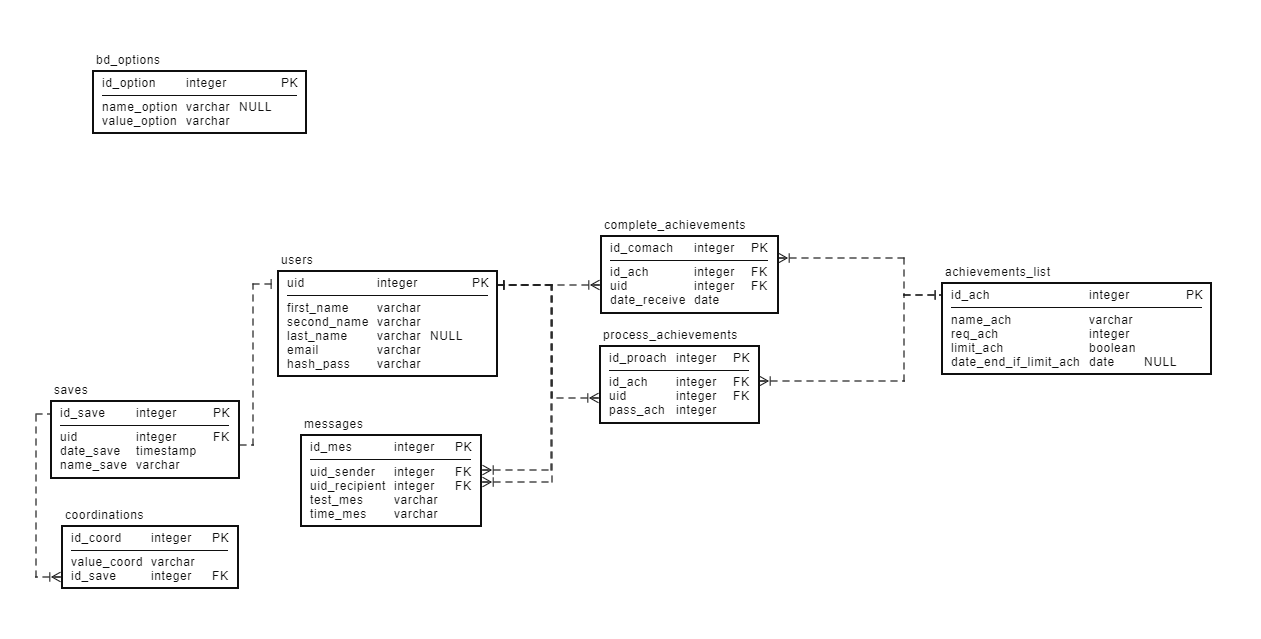
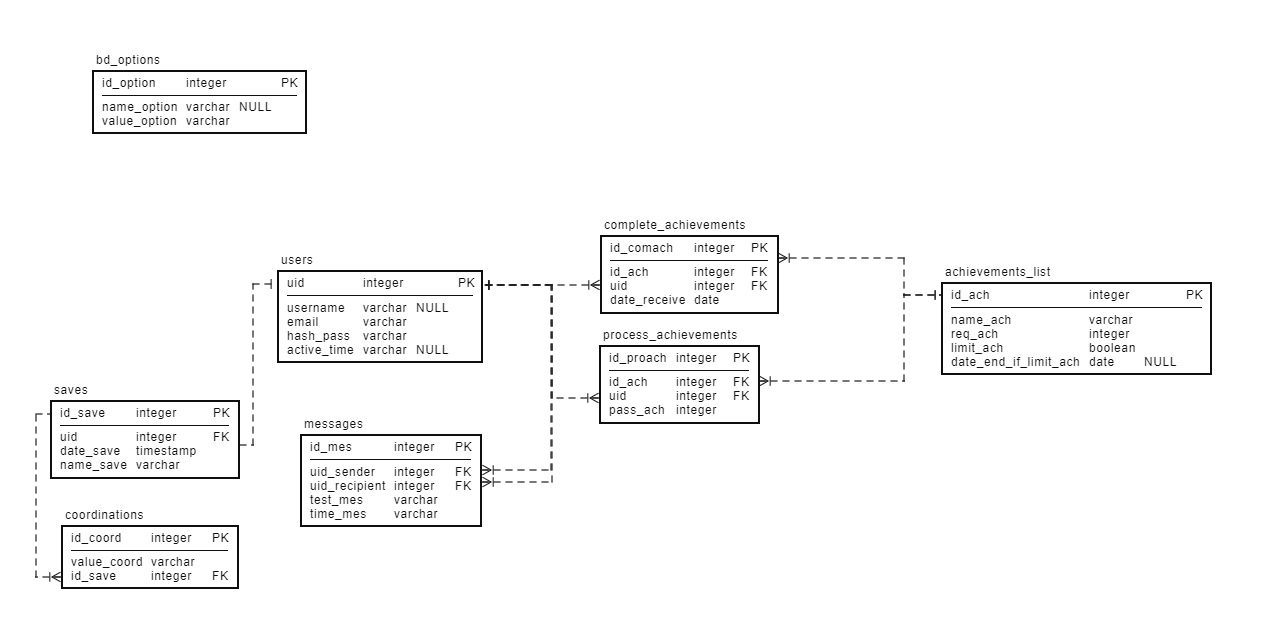
refact+reg, auth

Changed region(s): [[0.2165, 0.4163, 0.4021, 0.5947], [0.2784, 0.4163, 0.3402, 0.446]]

diff --git a/app/routes/login_auth.py b/app/routes/login_auth.py
@@ -1,9 +1,16 @@
 import os
 import hashlib
-import jwt
 from fastapi import APIRouter, Request, Response
 from app.db import DB
-from ..settings import SECRET_KEY
+from ..utils.user import hash_password, \
+    send_confirm_letter, \
+    check_password_hash
+
+from ..queries.queries_login import \
+    check_email_exist, \
+    check_username_exist, \
+    registration_user, \
+    get_pass
 
 routerUser = APIRouter(
     prefix='/user',
@@ -17,24 +24,42 @@ async def reg(request: Request) -> str:
     username = req.get("username")
     email = req.get("email")
     user_pass = req.get("password")
-    query_check_email = f"""
-                     select exists (
-                            select
-                            from users
-                            where email = $1)
-    """
-    check = await DB.conn.fetchval(query_check_email, email)
-    if check:
-        return "lol"
 
-    salt = os.urandom(32)
-    key = hashlib.pbkdf2_hmac('sha256', user_pass.encode('utf-8'), salt, 100000)
-    hash_pass = (salt + key).hex()
+    check_email = await check_email_exist(email)
+    if check_email:
+        return f"lol email"
 
-    query_reg_user = f"""
-         insert into users(username, email, hash_pass)
-         values($1, $2, $3)
-    """
+    check_username = await check_username_exist(username)
+    if check_username:
+        return f"mda username"
 
-    await DB.conn.execute(query_reg_user, username, email, hash_pass)
-    return "all well"
+    hash_pass = hash_password(user_pass)
+
+    answer_code = send_confirm_letter(email)
+    if len(answer_code) != 4:
+        return f"smth wrong with sending email"
+
+    await registration_user(username, email, hash_pass)
+    return answer_code
+
+
+@routerUser.get("/auth")
+async def auth(request: Request) -> str:
+    req: dict = await request.json()
+    username = req.get("username")
+    user_pass = req.get("password")
+
+    check_username = await check_username_exist(username)
+    if check_username is False:
+        return f"mda username"
+
+    db_pass = await get_pass(username)
+    if db_pass is None:
+        return f"mda password"
+
+    print(check_password_hash(user_pass, db_pass))
+
+    return f"okay"
+
+
+

diff --git a/app/utils/user.py b/app/utils/user.py
@@ -1,0 +1,39 @@
+import os
+import hashlib
+import smtplib
+import ujson
+
+from random import randint
+
+from config import EMAIL_PASSWORD
+
+
+def hash_password(user_password: str) -> dict:
+    salt = os.urandom(32).hex()
+    key = hashlib.pbkdf2_hmac("sha256", user_password.encode("utf-8"), salt.encode("utf-8"), 100000).hex()
+    return {"salt": salt, "key": key}
+
+
+def check_password_hash(user_password: str, password_hash: str) -> bool:
+    password_hash = ujson.loads(password_hash)
+    salt, key = password_hash["salt"], password_hash["key"]
+    new_key = hashlib.pbkdf2_hmac("sha256", user_password.encode("utf-8"), salt.encode("utf-8"), 100000).hex()
+    return key == new_key
+
+
+def send_confirm_letter(email: str) -> str:
+    conf_code = str(randint(1000, 9999))
+    text_mail = f"Please, do not reply to this message!\nYour confirm code: {conf_code}."
+
+    sender = "bestgamenoreply@gmail.com"
+    password = EMAIL_PASSWORD
+    server = smtplib.SMTP("smtp.gmail.com", 587)
+    server.starttls()
+
+    try:
+        server.login(sender, password)
+        server.sendmail(sender, email, f"Subject: Confirm code\n{text_mail}")
+    except Exception as _ex:
+        return f"{_ex}\n Check account data pls"
+
+    return conf_code

diff --git a/app/queries/queries_login.py b/app/queries/queries_login.py
@@ -1,0 +1,42 @@
+import ujson
+
+from app.db import DB
+from datetime import datetime
+
+
+async def check_email_exist(email: str) -> str:
+    query = f"""
+        select exists (
+                    select
+                    from users
+                    where email = $1)
+    """
+    return await DB.conn.fetchval(query, email)
+
+
+async def check_username_exist(username: str) -> str:
+    query = f"""
+        select exists (
+                    select
+                    from users
+                    where username = $1)
+    """
+    return await DB.conn.fetchval(query, username)
+
+
+async def registration_user(username: str, email: str, hash_pass: dict) -> None:
+    query = f"""
+         insert into users(username, email, hash_pass)
+         values($1, $2, $3)
+    """
+    await DB.conn.execute(query, username, email, ujson.dumps(hash_pass))
+
+
+async def get_pass(username: str) -> str:
+    query = f"""
+           select hash_pass
+           from users
+           where username = $1
+       """
+    return await DB.conn.fetchval(query, username)
+

diff --git a/app/settings.py b/app/settings.py
@@ -1,8 +1,7 @@
 import os
 
-DATABASE_URL: str = os.getenv("DATABASE_URL", "postgresql://faozuispekgops"
-                                              ":49e44fdedf916d54c5d562385a7677a6f387af7111403befac06fa0b2f96c73b@ec2"
-                                              "-176-34-116-203.eu-west-1.compute.amazonaws.com:5432/d1gec1g9j9v7sr")
+DATABASE_URL: str = os.getenv('DATA_BASE_URL')
+if not DATABASE_URL:
+    from config import CONFIG_DATABASE_URL
 
-SECRET_KEY: str = os.getenv("SECRET_KEY", "abobik")
-ALGORITHMS_JWT: str = os.getenv("ALGORITHMS_JWT", "HS256")
+    DATABASE_URL = CONFIG_DATABASE_URL

diff --git a/config.py b/config.py
@@ -1,2 +1,5 @@
-DATABASE_URL = 'postgresql://faozuispekgops:49e44fdedf916d54c5d562385a7677a6f387af7111403befac06fa0b2f96c73b@ec2-176' \
-               '-34-116-203.eu-west-1.compute.amazonaws.com:5432/d1gec1g9j9v7sr '
+CONFIG_DATABASE_URL = 'postgresql://faozuispekgops:49e44fdedf916d54c5d562385a7677a6f387af7111403befac06fa0b2f96c73b@ec2-176' \
+               '-34-116-203.eu-west-1.compute.amazonaws.com:5432/d1gec1g9j9v7sr'
+
+EMAIL_PASSWORD = 'qaz1xsw2edc3'
+

diff --git a/app/api.py b/app/api.py
@@ -18,12 +18,6 @@ app.include_router(login_auth.routerUser)
 # app.include_router(achievements.routerAchievements)
 
 
-engine = sqlalchemy.create_engine(
-    DATABASE_URL, connect_args={}
-)
-metadata.create_all(engine)
-
-
 @app.on_event("startup")
 async def startup() -> None:
     await DB.connect()
